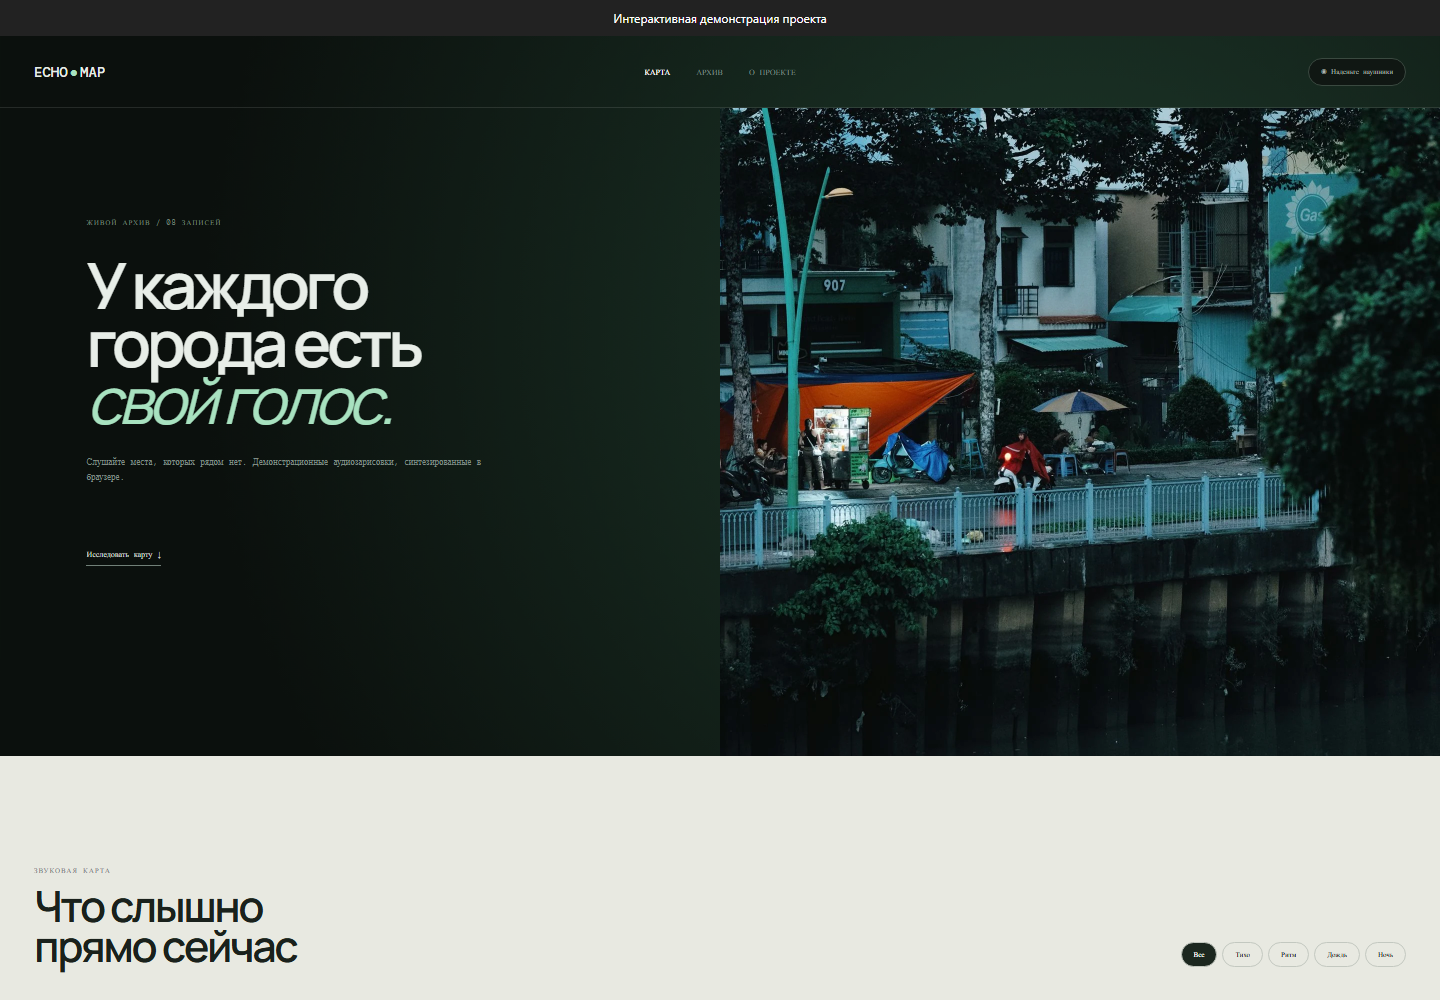
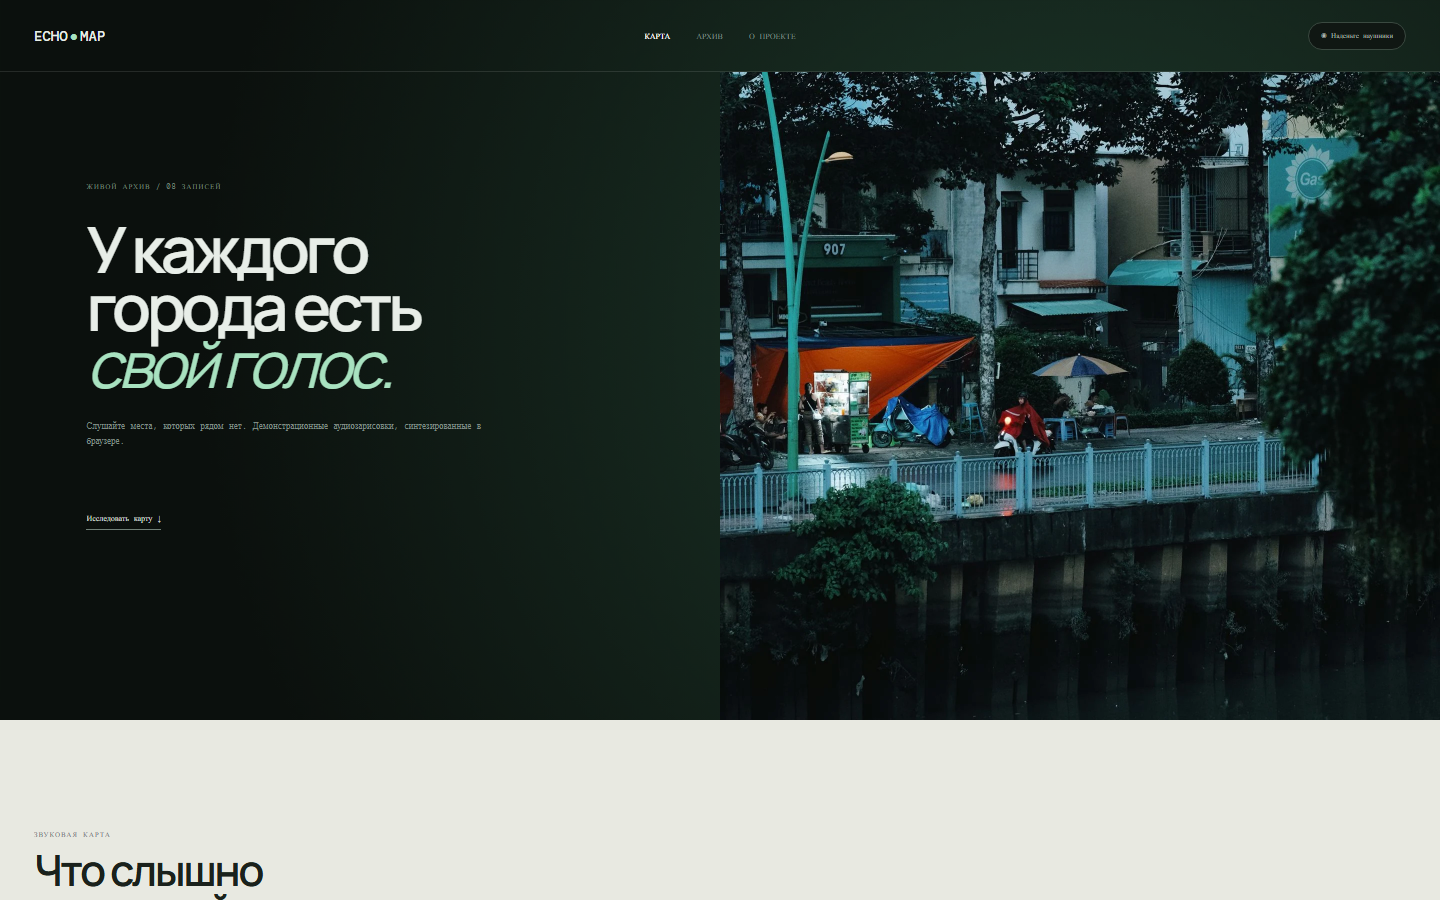
Polish project presentation, mobile layout and browser access

diff --git a/public/styles.css b/public/styles.css
@@ -1,7 +1,7 @@
-:root{font-family:Manrope,sans-serif;color:#e8eee8;background:#0b100d;--mint:#a8e2c0;--line:#29352e;--muted:#738078}*{box-sizing:border-box}html{scroll-behavior:smooth}body{margin:0;min-width:320px;background:radial-gradient(circle at 75% 10%,#1d382a 0,transparent 28%),#0b100d}button{font:inherit}body>header{position:absolute;z-index:5;left:0;right:0;height:72px;display:grid;grid-template-columns:1fr auto 1fr;align-items:center;padding:0 34px;border-bottom:1px solid #ffffff1c}.logo{font:500 14px DM Mono}.logo span{color:var(--mint);margin:0 2px}nav{display:flex;gap:26px}nav a{color:#7d8981;font:400 8px DM Mono;text-decoration:none;text-transform:uppercase}nav a.active{color:white}.headphones{justify-self:end;border:1px solid #3a4940;border-radius:20px;background:#101713;color:#abb5ae;padding:8px 12px;font:400 7px DM Mono}.intro{position:relative;display:grid;grid-template-columns:1fr 1fr;min-height:720px;padding-top:72px}.intro-copy{padding:100px 6vw 70px}.intro small,.atlas small,.archive small,.about small{font:400 7px DM Mono;letter-spacing:.14em;color:#77847c}.intro h1{margin:26px 0;font-size:64px;line-height:.9;letter-spacing:-.065em}.intro h1 em{color:var(--mint);font-weight:400}.intro p{max-width:410px;color:#7f8b83;font:300 9px/1.7 DM Mono}.intro a{display:inline-block;margin-top:55px;padding-bottom:6px;border-bottom:1px solid #718078;color:#d3dbd5;font:400 8px DM Mono;text-decoration:none}.wave-sculpture{position:relative;display:flex;align-items:center;justify-content:center;gap:11px;overflow:hidden}@keyframes wave{50%{transform:scaleY(.55);opacity:.65}}.wave-sculpture i{position:absolute;right:35px;bottom:35px;color:#65736a;font:400 7px/1.6 DM Mono;font-style:normal;text-align:right}.atlas{padding:100px 34px;background:#e8e9e1;color:#1a211c}.atlas>header,.section-head{display:flex;justify-content:space-between;align-items:end;margin-bottom:35px}.atlas h2,.archive h2,.about h2{margin:8px 0 0;font-size:43px;line-height:.94;letter-spacing:-.055em}.filters{display:flex;gap:5px}.filters button{border:1px solid #c3c8c0;border-radius:20px;background:none;padding:7px 12px;font:400 7px DM Mono}.filters button.active{background:#1c271f;color:white}.atlas-grid{display:grid;grid-template-columns:1.45fr .65fr;min-height:620px}.map{position:relative;overflow:hidden;background:#ccd4c8}.streets{position:absolute;inset:-20%;background:repeating-linear-gradient(24deg,transparent 0 53px,#aebbac 54px 56px),repeating-linear-gradient(108deg,transparent 0 74px,#b6c2b3 75px 78px)}.river{position:absolute;left:42%;top:-15%;width:17%;height:135%;transform:rotate(-12deg);background:#9ebfbd;border-left:8px solid #d9ded5;border-right:8px solid #d9ded5}.district{position:absolute;color:#7a897e;font:500 7px DM Mono;letter-spacing:.16em}.d1{left:14%;top:22%}.d2{right:13%;top:41%}.d3{left:17%;bottom:20%}.marker{position:absolute;left:var(--x);top:var(--y);z-index:3;width:26px;height:26px;border:6px solid #f1f2ec;border-radius:50%;background:var(--color);box-shadow:0 3px 12px #34443a66;cursor:pointer;transition:.2s}.marker.active{transform:scale(1.45);box-shadow:0 0 0 7px #ffffff70}.map-coords{position:absolute;left:16px;bottom:14px;color:#627167;font:400 6px/1.6 DM Mono}.player{display:flex;flex-direction:column;background:#152018;color:white}.cover{position:relative;display:grid;place-items:center;min-height:300px;background:var(--cover,#9fc7bd);overflow:hidden}.cover>span{position:relative;font:500 40px DM Mono;color:#17221b}.player-copy{padding:25px}.player-copy h3{margin:7px 0 12px;font-size:22px}.player-copy p{min-height:45px;margin:0;color:#98a49c;font:300 8px/1.6 DM Mono}.timeline{height:2px;margin-top:25px;background:#3b4840}.timeline i{display:block;width:0;height:100%;background:var(--mint)}.time{display:flex;justify-content:space-between;margin-top:7px;color:#6e7c73;font:400 6px DM Mono}.controls{display:flex;justify-content:center;align-items:center;gap:20px;margin-top:20px}.controls button{border:0;background:none;color:#a7b2aa}.controls .play{display:grid;place-items:center;width:46px;height:46px;border-radius:50%;background:var(--mint);color:#17221b}.archive{padding:110px 34px}.archive .section-head p{color:#77847c;font:400 8px DM Mono}.sound-list{border-top:1px solid var(--line)}.sound-row{display:grid;grid-template-columns:45px 1.2fr .7fr .7fr 80px;gap:18px;align-items:center;padding:18px 0;border-bottom:1px solid var(--line);cursor:pointer}.sound-row>i{display:grid;place-items:center;width:31px;height:31px;border-radius:50%;background:var(--color);color:#182019;font:500 8px DM Mono;font-style:normal}.sound-row h3{margin:0 0 4px;font-size:11px}.sound-row small{font:300 6px DM Mono;letter-spacing:0}.sound-row>span{color:#7d8981;font:300 7px DM Mono}.sound-row button{border:1px solid #334039;border-radius:18px;background:none;color:#b7c0ba;padding:7px;font:400 7px DM Mono}.about{padding:120px 8vw;background:var(--mint);color:#172019}.about small{color:#4f725e}.about h2{max-width:1000px;font-size:55px}.about h2 em{font-weight:400;color:#527563}.about>div{display:grid;grid-template-columns:1fr 1fr;gap:80px;margin-top:60px}.about p{max-width:560px;font:400 10px/1.7 DM Mono}.big-stat{display:flex;align-items:end;gap:16px}.big-stat strong{font-size:78px;line-height:.8;letter-spacing:-.08em}.big-stat span{font:400 7px/1.5 DM Mono}footer{display:flex;justify-content:space-between;padding:28px 34px;color:#66736b;font:400 7px DM Mono}@media(max-width:800px){body>header{grid-template-columns:1fr auto;padding:0 16px}nav{display:none}.headphones{font-size:0}.headphones:after{content:'◉';font-size:10px}.intro{grid-template-columns:1fr;min-height:680px}.intro-copy{padding:120px 18px}.intro h1{font-size:48px}.wave-sculpture{position:absolute;right:-230px;top:120px;width:430px;height:430px;opacity:.35}.atlas{padding:75px 14px}.atlas>header{display:block}.filters{margin-top:25px;overflow:auto}.atlas-grid{grid-template-columns:1fr}.map{min-height:440px}.player{min-height:550px}.archive{padding:80px 14px}.section-head{display:block}.sound-row{grid-template-columns:38px 1fr 65px}.sound-row>span:nth-of-type(1),.sound-row>span:nth-of-type(2){display:none}.about{padding:80px 18px}.about h2{font-size:40px}.about>div{grid-template-columns:1fr}.big-stat strong{font-size:60px}}
+:root{font-family:Manrope,sans-serif;color:#e8eee8;background:#0b100d;--mint:#a8e2c0;--line:#29352e;--muted:#738078}*{box-sizing:border-box}html{scroll-behavior:smooth}body{margin:0;min-width:320px;background:radial-gradient(circle at 75% 10%,#1d382a 0,transparent 28%),#0b100d}button{font:inherit}body>header{position:absolute;z-index:5;left:0;right:0;height:72px;display:grid;grid-template-columns:1fr auto 1fr;align-items:center;padding:0 34px;border-bottom:1px solid #ffffff1c}.logo{font:500 14px DM Mono}.logo span{color:var(--mint);margin:0 2px}nav{display:flex;gap:26px}nav a{color:#7d8981;font:400 8px DM Mono;text-decoration:none;text-transform:uppercase}nav a.active{color:white}.headphones{justify-self:end;border:1px solid #3a4940;border-radius:20px;background:#101713;color:#abb5ae;padding:8px 12px;font:400 7px DM Mono}.intro{position:relative;display:grid;grid-template-columns:1fr 1fr;min-height:720px;padding-top:72px}.intro-copy{padding:100px 6vw 70px}.intro small,.atlas small,.archive small,.about small{font:400 7px DM Mono;letter-spacing:.14em;color:#77847c}.intro h1{margin:26px 0;font-size:64px;line-height:.9;letter-spacing:-.065em}.intro h1 em{color:var(--mint);font-weight:400}.intro p{max-width:410px;color:#7f8b83;font:300 9px/1.7 DM Mono}.intro a{display:inline-block;margin-top:55px;padding-bottom:6px;border-bottom:1px solid #718078;color:#d3dbd5;font:400 8px DM Mono;text-decoration:none}.wave-sculpture{position:relative;display:flex;align-items:center;justify-content:center;gap:11px;overflow:hidden}@keyframes wave{50%{transform:scaleY(.55);opacity:.65}}.wave-sculpture i{position:absolute;right:35px;bottom:35px;color:#65736a;font:400 7px/1.6 DM Mono;font-style:normal;text-align:right}.atlas{padding:100px 34px;background:#e8e9e1;color:#1a211c}.atlas>header,.section-head{display:flex;justify-content:space-between;align-items:end;margin-bottom:35px}.atlas h2,.archive h2,.about h2{margin:8px 0 0;font-size:43px;line-height:.94;letter-spacing:-.055em}.filters{display:flex;gap:5px}.filters button{border:1px solid #c3c8c0;border-radius:20px;background:none;padding:7px 12px;font:400 7px DM Mono}.filters button.active{background:#1c271f;color:white}.atlas-grid{display:grid;grid-template-columns:1.45fr .65fr;min-height:620px}.map{position:relative;overflow:hidden;background:#ccd4c8}.streets{position:absolute;inset:-20%;background:repeating-linear-gradient(24deg,transparent 0 53px,#aebbac 54px 56px),repeating-linear-gradient(108deg,transparent 0 74px,#b6c2b3 75px 78px)}.river{position:absolute;left:42%;top:-15%;width:17%;height:135%;transform:rotate(-12deg);background:#9ebfbd;border-left:8px solid #d9ded5;border-right:8px solid #d9ded5}.district{position:absolute;color:#7a897e;font:500 7px DM Mono;letter-spacing:.16em}.d1{left:14%;top:22%}.d2{right:13%;top:41%}.d3{left:17%;bottom:20%}.marker{position:absolute;left:var(--x);top:var(--y);z-index:3;width:26px;height:26px;border:6px solid #f1f2ec;border-radius:50%;background:var(--color);box-shadow:0 3px 12px #34443a66;cursor:pointer;transition:.2s}.marker.active{transform:scale(1.45);box-shadow:0 0 0 7px #ffffff70}.map-coords{position:absolute;left:16px;bottom:14px;color:#627167;font:400 6px/1.6 DM Mono}.player{display:flex;flex-direction:column;background:#152018;color:white}.cover{position:relative;display:grid;place-items:center;min-height:300px;background:var(--cover,#9fc7bd);overflow:hidden}.cover>span{position:relative;font:500 40px DM Mono;color:#17221b}.player-copy{padding:25px}.player-copy h3{margin:7px 0 12px;font-size:22px}.player-copy p{min-height:45px;margin:0;color:#98a49c;font:300 8px/1.6 DM Mono}.timeline{height:2px;margin-top:25px;background:#3b4840}.timeline i{display:block;width:0;height:100%;background:var(--mint)}.time{display:flex;justify-content:space-between;margin-top:7px;color:#6e7c73;font:400 6px DM Mono}.controls{display:flex;justify-content:center;align-items:center;gap:20px;margin-top:20px}.controls button{border:0;background:none;color:#a7b2aa}.controls .play{display:grid;place-items:center;width:46px;height:46px;border-radius:50%;background:var(--mint);color:#17221b}.archive{padding:110px 34px}.archive .section-head p{color:#77847c;font:400 8px DM Mono}.sound-list{border-top:1px solid var(--line)}.sound-row{display:grid;grid-template-columns:45px 1.2fr .7fr .7fr 80px;gap:18px;align-items:center;padding:18px 0;border-bottom:1px solid var(--line);cursor:pointer}.sound-row>i{display:grid;place-items:center;width:31px;height:31px;border-radius:50%;background:var(--color);color:#182019;font:500 8px DM Mono;font-style:normal}.sound-row h3{margin:0 0 4px;font-size:11px}.sound-row small{font:300 6px DM Mono;letter-spacing:0}.sound-row>span{color:#7d8981;font:300 7px DM Mono}.sound-row button{border:1px solid #334039;border-radius:18px;background:none;color:#b7c0ba;padding:7px;font:400 7px DM Mono}.about{padding:120px 8vw;background:var(--mint);color:#172019}.about small{color:#4f725e}.about h2{max-width:1000px;font-size:55px}.about h2 em{font-weight:400;color:#527563}.about>div{display:grid;grid-template-columns:1fr 1fr;gap:80px;margin-top:60px}.about p{max-width:560px;font:400 10px/1.7 DM Mono}.big-stat{display:flex;align-items:end;gap:16px}.big-stat strong{font-size:78px;line-height:.8;letter-spacing:-.08em}.big-stat span{font:400 7px/1.5 DM Mono}footer{display:flex;justify-content:space-between;padding:28px 34px;color:#66736b;font:400 7px DM Mono}@media(max-width:800px){body>header{grid-template-columns:1fr auto;padding:0 16px}nav{display:none}.headphones{font-size:0}.headphones:after{content:'◉';font-size:10px}.intro{grid-template-columns:1fr;min-height:0}.intro-copy{padding:48px 20px 28px}.intro h1{font-size:clamp(40px,11vw,56px);line-height:1}.wave-sculpture{position:absolute;right:-230px;top:120px;width:430px;height:430px;opacity:.35}.atlas{padding:44px 16px}.atlas>header{display:block}.filters{margin-top:25px;overflow:auto}.atlas-grid{grid-template-columns:1fr}.map{min-height:440px}.player{min-height:550px}.archive{padding:80px 14px}.section-head{display:block}.sound-row{grid-template-columns:38px 1fr 65px}.sound-row>span:nth-of-type(1),.sound-row>span:nth-of-type(2){display:none}.about{padding:80px 18px}.about h2{font-size:40px}.about>div{grid-template-columns:1fr}.big-stat strong{font-size:60px}}
 
 .intro{position:relative;overflow:hidden}
 
 .wave-sculpture>img,.cover>img{position:absolute;inset:0;display:block;width:100%;height:100%;object-fit:cover}
 .cover>span{position:absolute;left:20px;bottom:16px;color:#fff;font-size:26px;text-shadow:0 2px 12px #000}
-@media(max-width:800px){.intro{display:grid;grid-template-columns:1fr}.wave-sculpture{position:relative;right:auto;top:auto;width:auto;height:300px;opacity:1;margin:0 16px 30px;border-radius:12px}}
+@media(max-width:800px){.intro{display:grid;grid-template-columns:1fr}.wave-sculpture{position:relative;right:auto;top:auto;width:auto;height:auto;aspect-ratio:4/3;opacity:1;margin:0 16px 30px;border-radius:12px}}

diff --git a/public/index.html b/public/index.html
@@ -1,7 +1,7 @@
 <!doctype html>
 <html lang="ru"><head><meta charset="UTF-8"><meta name="viewport" content="width=device-width,initial-scale=1"><meta name="description" content="EchoMap — интерактивный атлас городских звуков"><link rel="preconnect" href="https://fonts.googleapis.com"><link rel="preconnect" href="https://fonts.gstatic.com" crossorigin><link href="https://fonts.googleapis.com/css2?family=DM+Mono:wght@300;400;500&family=Manrope:wght@400;500;600&display=swap" rel="stylesheet"><link rel="stylesheet" href="styles.css"><title>EchoMap — urban sound atlas</title></head>
 <body>
-<div role="note" style="padding:9px 16px;background:#222;color:#fff;font:12px/1.5 system-ui;text-align:center">Интерактивная демонстрация проекта</div><header><a class="logo">ECHO<span>●</span>MAP</a><nav><a class="active" href="#map">Карта</a><a href="#archive">Архив</a><a href="#about">О проекте</a></nav><span class="headphones">◉ Наденьте наушники</span></header>
+<header><a class="logo">ECHO<span>●</span>MAP</a><nav><a class="active" href="#map">Карта</a><a href="#archive">Архив</a><a href="#about">О проекте</a></nav><span class="headphones">◉ Наденьте наушники</span></header>
 <main><section class="intro"><div class="intro-copy"><small>ЖИВОЙ АРХИВ / 08 ЗАПИСЕЙ</small><h1>У каждого<br>города есть<br><em>свой голос.</em></h1><p>Слушайте места, которых рядом нет. Демонстрационные аудиозарисовки, синтезированные в браузере.</p><a href="#map">Исследовать карту ↓</a></div><div class="wave-sculpture"><img src="photos/hero.webp" alt="Городская улица у воды в вечернем свете" width="1440" height="960" fetchpriority="high"></div></section>
 <section class="atlas" id="map"><header><div><small>ЗВУКОВАЯ КАРТА</small><h2>Что слышно<br>прямо сейчас</h2></div><div class="filters"><button class="active" data-mood="all">Все</button><button data-mood="calm">Тихо</button><button data-mood="pulse">Ритм</button><button data-mood="rain">Дождь</button><button data-mood="night">Ночь</button></div></header><div class="atlas-grid"><div class="map"><div class="streets"></div><div class="river"></div><div class="district d1">ПРЕСНЯ</div><div class="district d2">БАСМАННЫЙ</div><div class="district d3">ХАМОВНИКИ</div><div id="markers"></div><div class="map-coords">MOSCOW / 1:24000<br>JUL 07 · 14:32</div></div><aside class="player"><div class="cover" id="cover"><img id="cover-photo" src="photos/calm.webp" alt="Городской пейзаж" width="1440" height="960" decoding="async"><span id="cover-number">01</span></div><div class="player-copy"><small id="meta">МОСКВА · БАСМАННЫЙ</small><h3 id="title">Утро на Яузе</h3><p id="description">Вода под мостом, редкие велосипеды и первый трамвай.</p><div class="timeline"><i id="progress"></i></div><div class="time"><span id="elapsed">00:00</span><span id="duration">01:24</span></div><div class="controls"><button class="previous" aria-label="Предыдущая запись">←</button><button class="play" aria-label="Воспроизвести" aria-pressed="false">▶</button><button class="next" aria-label="Следующая запись">→</button></div><p id="audio-status" role="status"></p></div></aside></div></section>
 <section class="archive" id="archive"><div class="section-head"><div><small>АУДИОЗАРИСОВКИ</small><h2>Последние<br>добавления</h2></div><p id="stats">Загружаем архив…</p></div><div class="sound-list" id="sound-list"></div></section>

diff --git a/demo/browser.js b/demo/browser.js
@@ -1,0 +1,61 @@
+// Browser-only adapter, loaded exclusively by scripts/build_demo.py.
+// ponytail: state lasts for one page session; use the documented server for shared, durable data.
+(() => {
+  const state = structuredClone(globalThis.DEMO_SEED);
+  const fail = (message, status = 400) => {
+    throw Object.assign(new Error(message), { status });
+  };
+  const text = (value, min = 1, max = 200) => {
+    if (
+      typeof value !== "string" ||
+      value.trim().length < min ||
+      value.trim().length > max
+    )
+      fail("Проверьте введённые данные");
+    return value.trim();
+  };
+  const json = (value, status = 200) =>
+    new Response(JSON.stringify(value), {
+      status,
+      headers: { "Content-Type": "application/json" },
+    });
+  const originalFetch = globalThis.fetch.bind(globalThis);
+  globalThis.fetch = async (input, options = {}) => {
+    const url = new URL(input, globalThis.location.href);
+    if (
+      url.origin !== globalThis.location.origin ||
+      !url.pathname.startsWith("/api/")
+    )
+      return originalFetch(input, options);
+    if (options.signal?.aborted)
+      throw new DOMException("Aborted", "AbortError");
+    try {
+      return await handle(
+        url,
+        options.method || "GET",
+        options.body ? JSON.parse(options.body) : {},
+        new Headers(options.headers),
+      );
+    } catch (error) {
+      return json(
+        { message: error.message, detail: error.message },
+        error.status || 400,
+      );
+    }
+  };
+  globalThis.PORTFOLIO_DEMO = true;
+
+  async function handle(url, method) {
+    if (method !== "GET") fail("Только чтение", 405);
+    if (url.pathname === "/api/sounds") {
+      const mood = url.searchParams.get("mood");
+      return json(
+        state["/api/sounds"].filter(
+          (x) => !mood || mood === "all" || x.mood === mood,
+        ),
+      );
+    }
+    if (url.pathname === "/api/stats") return json(state["/api/stats"]);
+    fail("Не найдено", 404);
+  }
+})();

diff --git a/scripts/build_demo.py b/scripts/build_demo.py
@@ -1,0 +1,30 @@
+"""Build an isolated static demo; never reads a runtime database or changes the API."""
+import json
+import shutil
+from pathlib import Path
+root = Path(__file__).resolve().parents[1]
+source = root / 'public'
+output = root / '_site'
+output.mkdir(exist_ok=True)
+shutil.copytree(source, output, dirs_exist_ok=True)
+seed = json.loads((root/'demo/seed.json').read_text(encoding='utf8'))
+(output/'seed.js').write_text('globalThis.DEMO_SEED = '+json.dumps(seed,ensure_ascii=False)+';\n',encoding='utf8')
+shutil.copyfile(root/'demo/browser.js', output/'demo.js')
+index = output/'index.html'
+html = index.read_text(encoding='utf8').replace('/static/','')
+html = html.replace('<script ', '<script src="seed.js"></script><script src="demo.js"></script><script ', 1)
+html = html.replace('<script>', '<script src="seed.js"></script><script src="demo.js"></script><script>', 1) if 'src="seed.js"' not in html else html
+html = html.replace('</body>', '<footer class="browser-scope" style="padding:16px;text-align:center;font:12px/1.5 system-ui">Изменения в этой версии хранятся в текущей вкладке. <a href="https://github.com/memorim/echomap-sound-atlas#readme">Исходный код и запуск сервера</a></footer></body>')
+html = html.replace('href="/"','href="./"').replace('href="/docs"','href="https://github.com/memorim/echomap-sound-atlas#readme"')
+html = html.replace('Start watching','Добавить в текущую сессию').replace('Start monitoring →','Добавить в текущую сессию →')
+html = html.replace('id="check-now">Проверить сейчас','id="check-now">О сетевых проверках')
+index.write_text(html,encoding='utf8')
+app=output/'app.js'
+if app.exists():
+ text=app.read_text(encoding='utf8')
+ text=text.replace('Run check','О сетевой проверке').replace(' is now being watched.',' добавлен в текущую сессию; сетевые проверки доступны при запуске сервера.')
+ text=text.replace('Капсула зашифрована и отправлена на орбиту.','Капсула зашифрована в памяти вкладки. Сохранится до перезагрузки страницы.')
+ text=text.replace('Демо-заявка сохранена. Уведомления менеджеру не отправляются.','Заявка сохранена в текущей вкладке. Контакты не отправлены менеджеру.')
+ text=text.replace('Демо-заказ №','Заказ в текущей вкладке №')
+ app.write_text(text,encoding='utf8')
+print('Built isolated browser demo:', root.name)

diff --git a/README.md b/README.md
@@ -1,14 +1,12 @@
-# EchoMap — атлас городских звуков
+# EchoMap - атлас городских звуков
 
 Каталог звуковых зарисовок с картой, выбором настроения, проигрывателем и заметками.
 
-
+[Открыть проект](https://memorim.github.io/echomap-sound-atlas/)
 
 ![Компьютерная версия](docs/desktop.png)
 
 <img src="docs/mobile.png" width="320" alt="Мобильная версия">
-
-[Короткая демонстрация](docs/demo.gif)
 
 ## Возможности
 
@@ -73,3 +71,9 @@ CI устанавливает зависимости по зафиксирова
 ## Документация
 
 [Результаты аудита](docs/AUDIT_2026_10.md) · [Техническая документация](docs/TECHNICAL.md) · [Пример запроса и ответа](docs/API_EXAMPLE.md) · [История изменений](CHANGELOG.md)
+
+## Версия в браузере
+
+Открывается без установки. Изменения изолированы в памяти текущей вкладки и сбрасываются при перезагрузке. Серверные гарантии и SQLite относятся к локальному запуску, описанному выше.
+
+Сборка: `python scripts/build_demo.py`. Проверка адаптера: `node --test demo/demo.test.mjs`.
